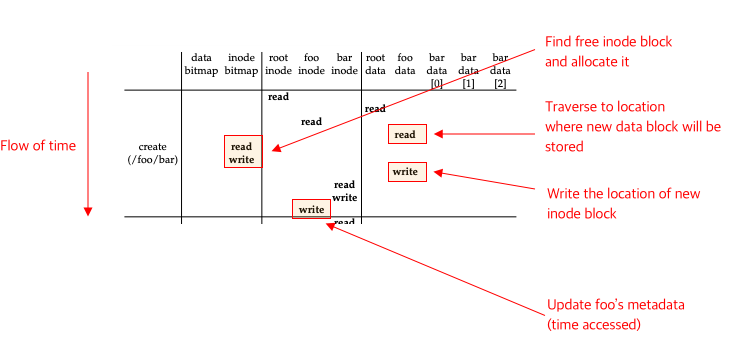
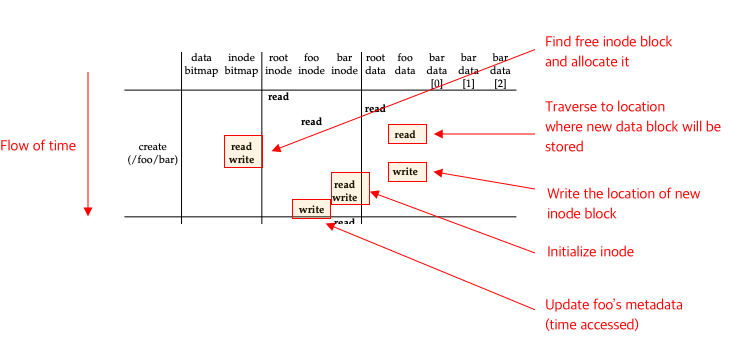
feat: Add progress #24 ‘Question 3, Midterm 4, CSC 369’

diff --git a/csc369/week_7/midterm_4/midterm_4_solution.tex b/csc369/week_7/midterm_4/midterm_4_solution.tex
@@ -880,7 +880,7 @@
                     \item Read inode bitmap (to find free inode)
                     \item Write inode bitmap (to mark it allocated)
                     \item Create one new inode (to initialize it)
-                    \item Create one data block (to link high-level name of file \texttt{bar} to its inode number)
+                    \item Write the location of new inode block in \texttt{foo} (by linking high-level name of file \texttt{bar} to its inode number and storing in data block)
                     \item Perform one read and write to the directory inode and update it
                 \end{itemize}
             \end{itemize}
